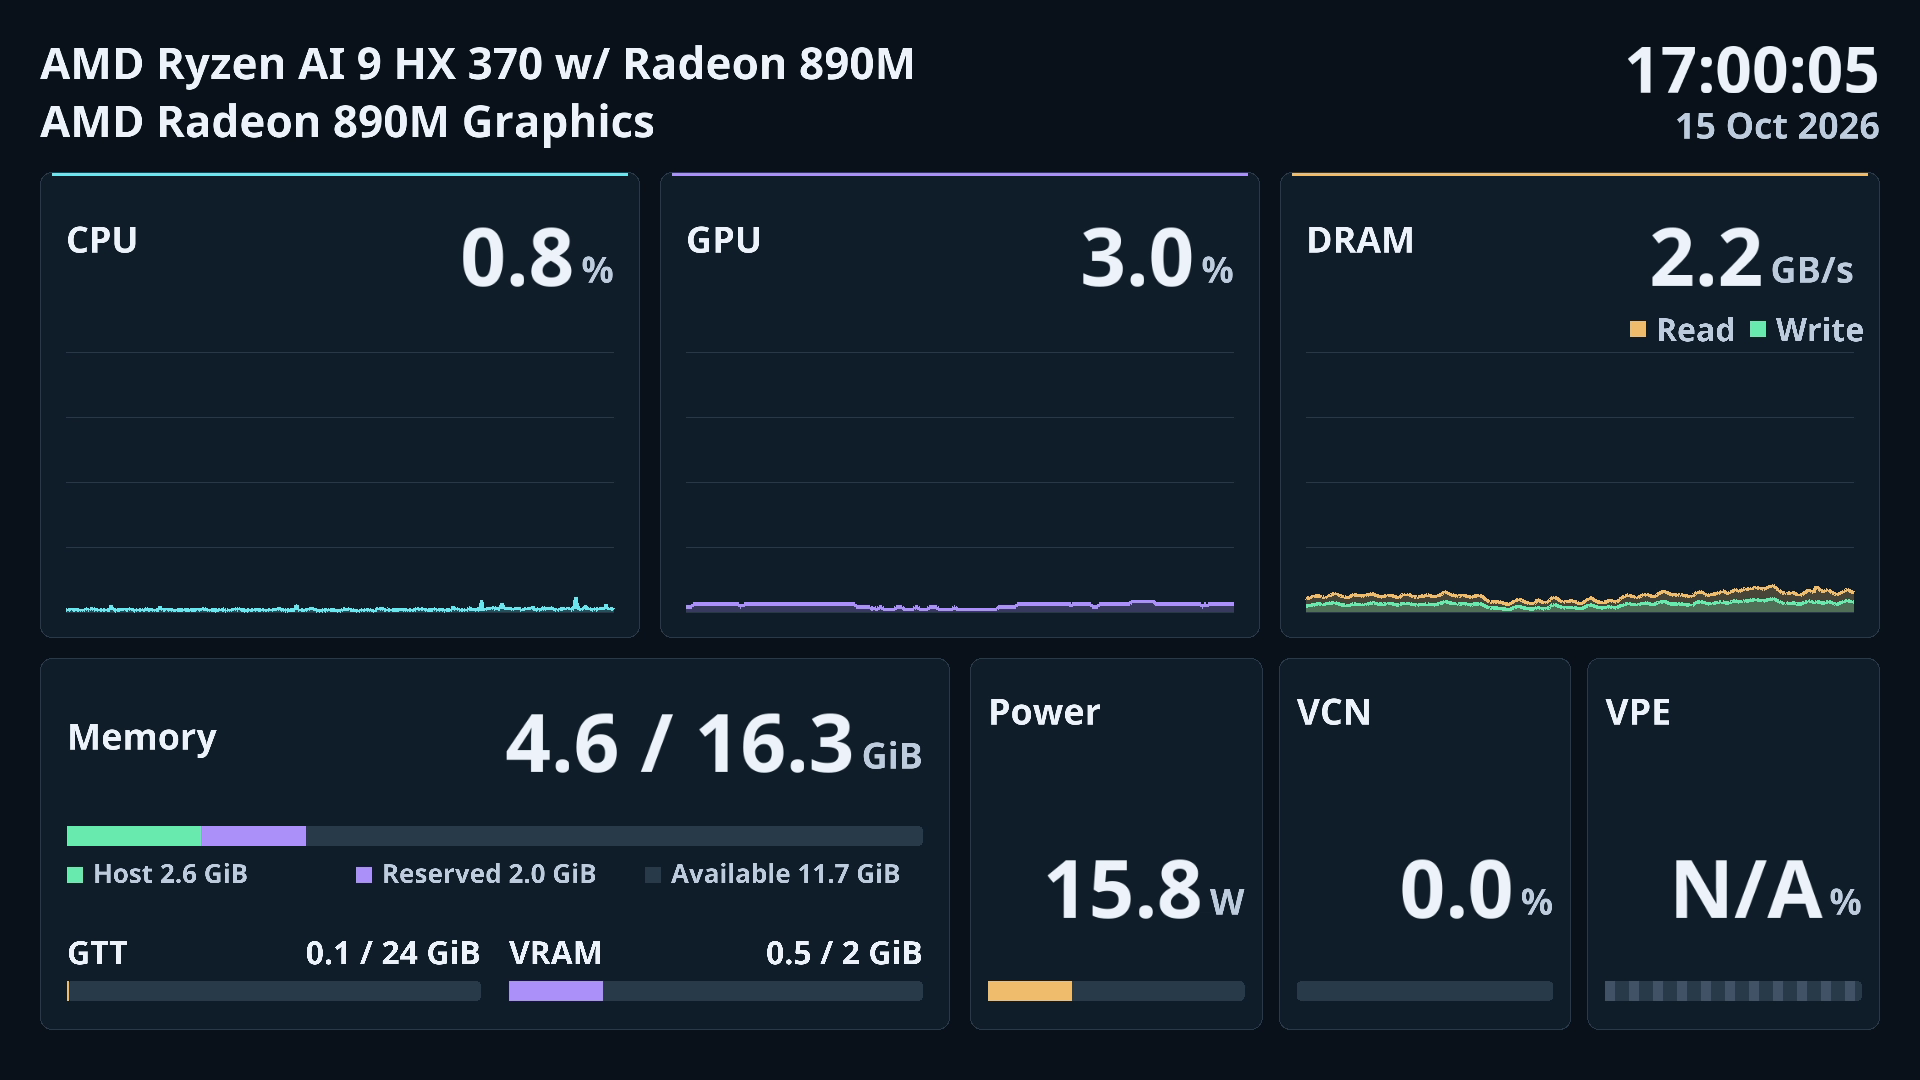
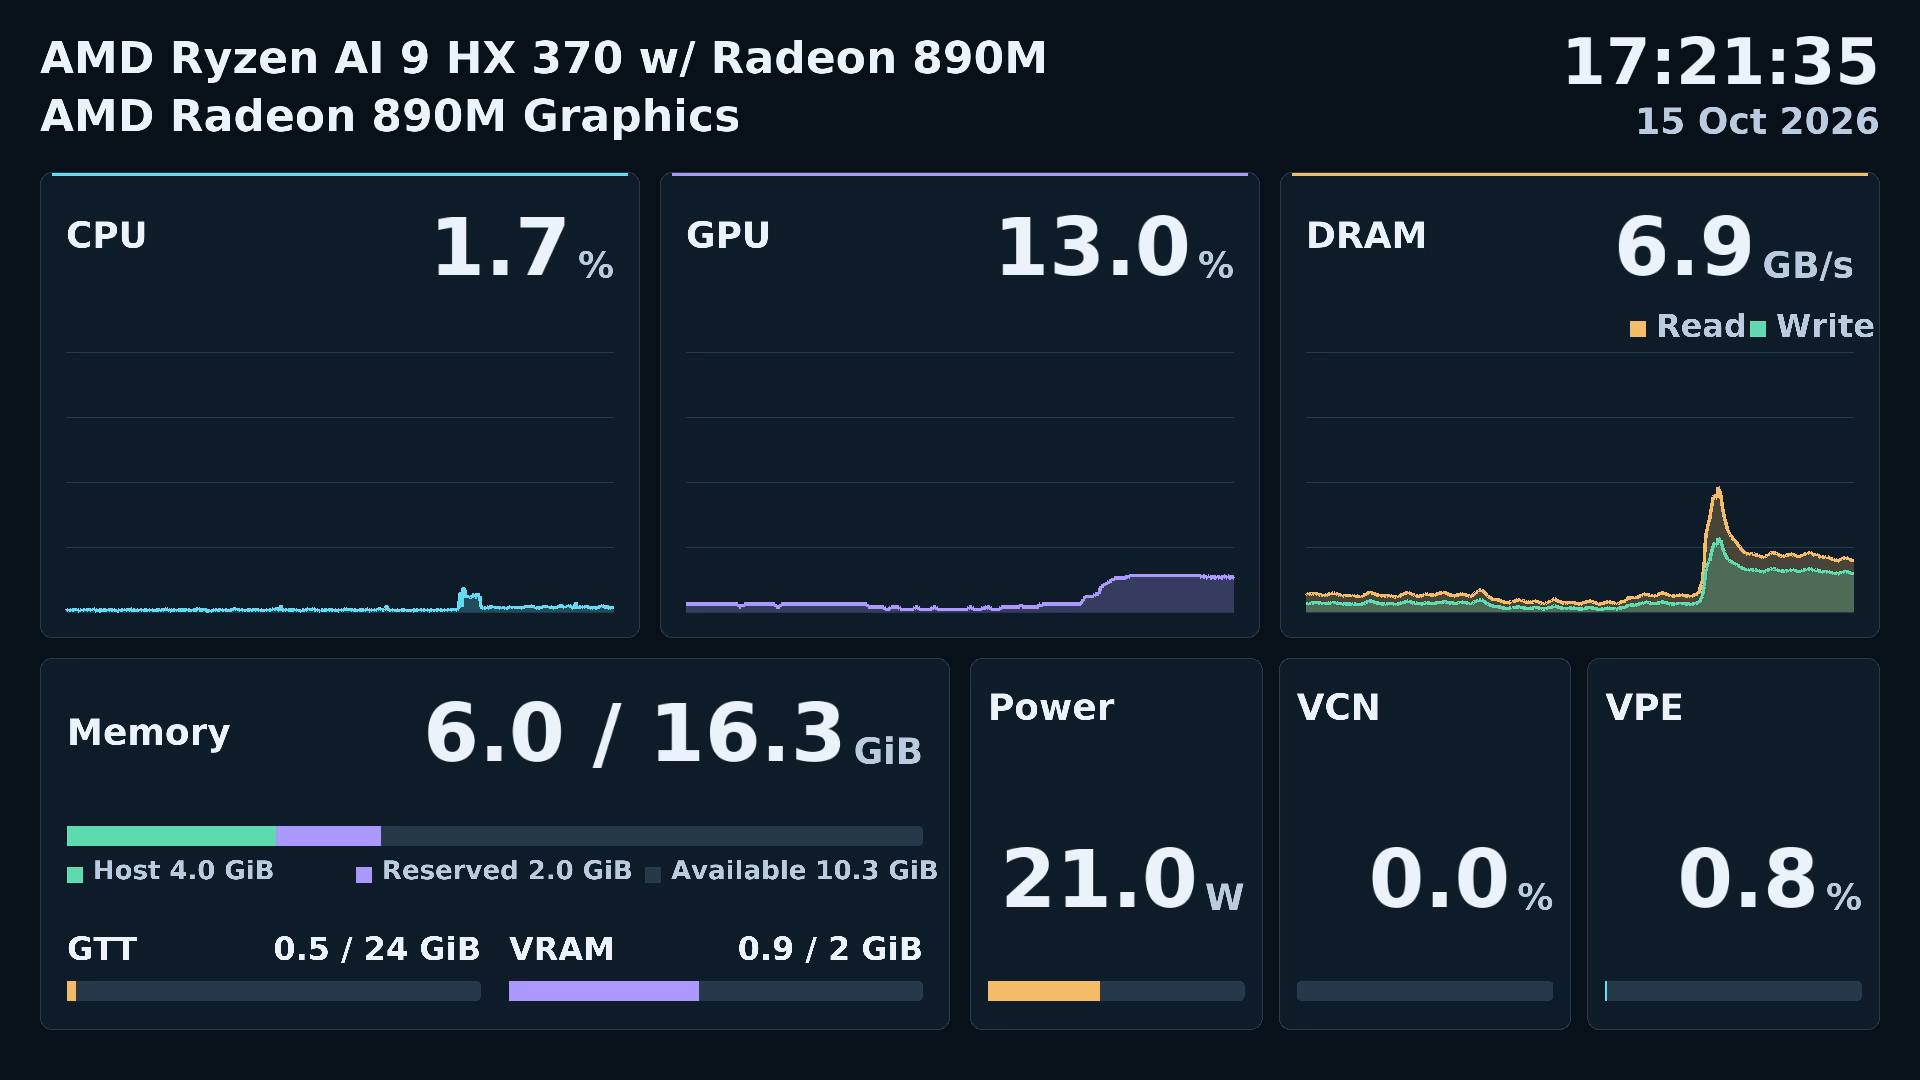
Record dashboard RTSP, zero-copy, headless and NVR hardware validation

diff --git a/docs/resource-dashboard.md b/docs/resource-dashboard.md
@@ -199,3 +199,21 @@ helper for a single selected dashboard source. It verifies live decoding,
 rendering and AI, catalog recording and hardware playback. Use a separate config
 and recording root with five-second segments. The installed production server
 does not depend on this helper or Qt.
+
+### Recorded results
+
+The [validation record](resource-dashboard-validation-results.json) identifies
+the implementation revision, frozen-runtime differences, hashes and local
+artifacts. All 23 CTest cases passed. A 600-second headless run passed shared
+clients, all-client disconnect/idle/reconnect and abrupt-client disconnect;
+all three recordings were valid 1080p H.264 at 10fps. After warmup, maximum
+growth was 68 KiB RSS, zero GPU allocation and three FDs, within existing guards.
+There were no copy-audit violations.
+
+The final implementation passed a separate 110-second RTSP regression and
+30fps/65W LAN-listener test. The latter recorded 1,501 frames over 50 seconds
+with BT.709 primaries/transfer/matrix and limited range. NVR live rendering, AI,
+recording search and hardware playback passed; all NVR fragments finalized and
+passed media inspection. Active-client timed server shutdown completed without
+GStreamer criticals. A dashboard-only build linked neither Qt nor MIGraphX, and
+an installed CMake SDK client used `AMDVA::amdva_monitor` successfully.
